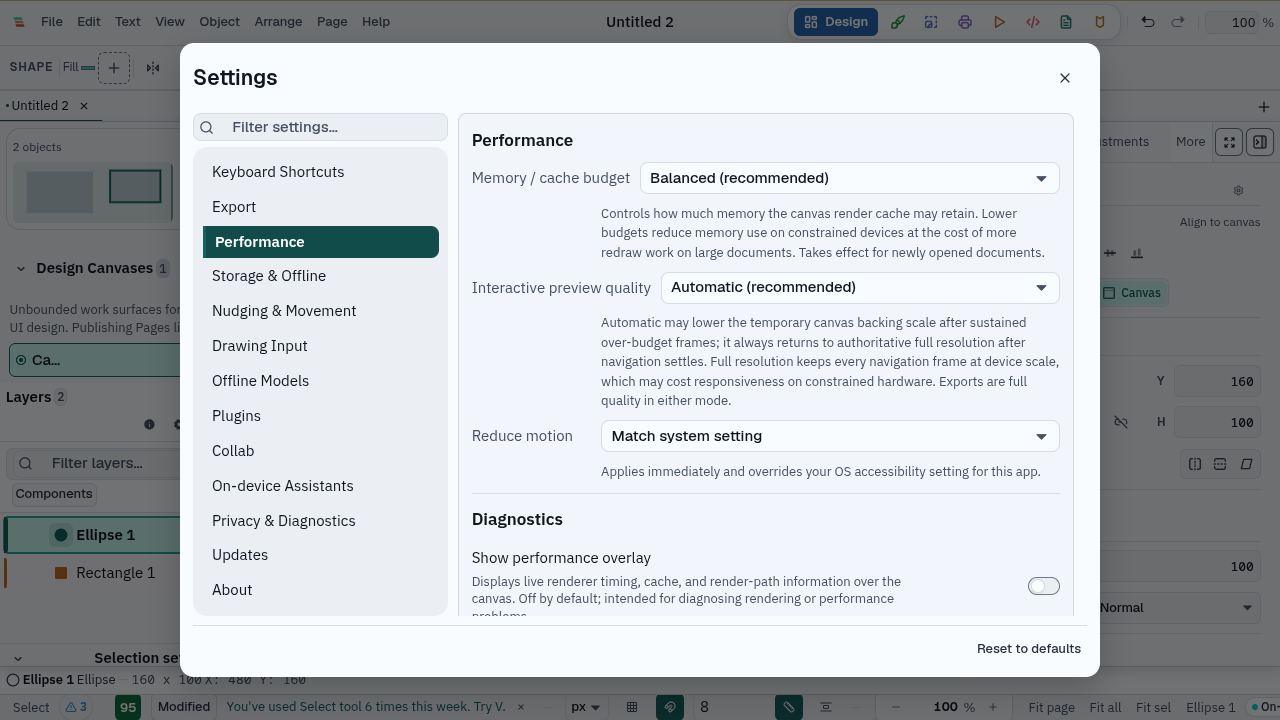
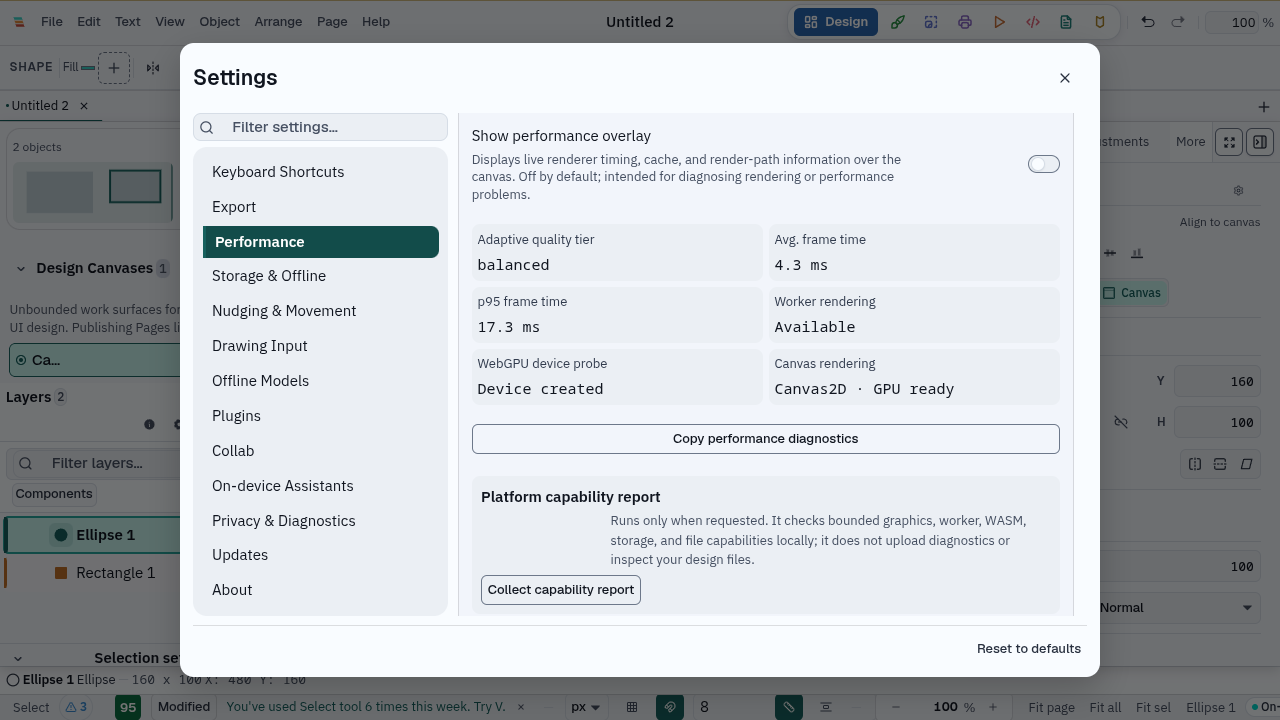
test(e2e): scroll the diagnostics stats into the settings capture and reshoot
The first settings capture clipped the Diagnostics help text mid-word at
the dialog's rest position and missed the renderer status entirely. The
capture now scrolls the WebGPU device probe row into view before shooting;
the visual judge accepted the re-capture, which shows the truthful live
status (Canvas rendering: Canvas2D - GPU ready, probe: Device created).

Changed region(s): [[0.375, 0.1833, 0.8125, 0.8556], [0.7812, 0.2139, 0.8438, 0.2444], [0.7812, 0.5806, 0.8125, 0.6111]]

diff --git a/tests/e2e/webgpu/app-gpu-capture.spec.ts b/tests/e2e/webgpu/app-gpu-capture.spec.ts
@@ -108,7 +108,9 @@ test('captures the prefer-WebGPU path and its truthful status', async ({ page })
     expect(status.trim()).toMatch(/GPU unavailable · Canvas2D|Canvas2D/);
   }
 
-  // Performance tab: renderer status surfaces the same truth.
+  // Performance tab: the live renderer status lives in the Diagnostics stats
+  // ("WebGPU device probe"); scroll it into view so the capture shows it
+  // unclipped instead of wherever the dialog happened to rest.
   await page.evaluate(() => {
     const file = [...document.querySelectorAll('button')].find(
       (element) => element.textContent?.trim() === 'File',
@@ -119,6 +121,9 @@ test('captures the prefer-WebGPU path and its truthful status', async ({ page })
   const settings = page.locator('dialog.varve-dialog--settings[open]');
   const performanceTab = settings.getByRole('tab', { name: /Performance|Render/i });
   await performanceTab.click();
+  const probeStat = settings.getByText('WebGPU device probe', { exact: false }).first();
+  await probeStat.scrollIntoViewIfNeeded();
+  await expect(probeStat).toBeVisible();
   await page.waitForTimeout(300);
   await page.screenshot({
     path: path.join(SHOT_DIR, 'app-settings-performance.png'),
